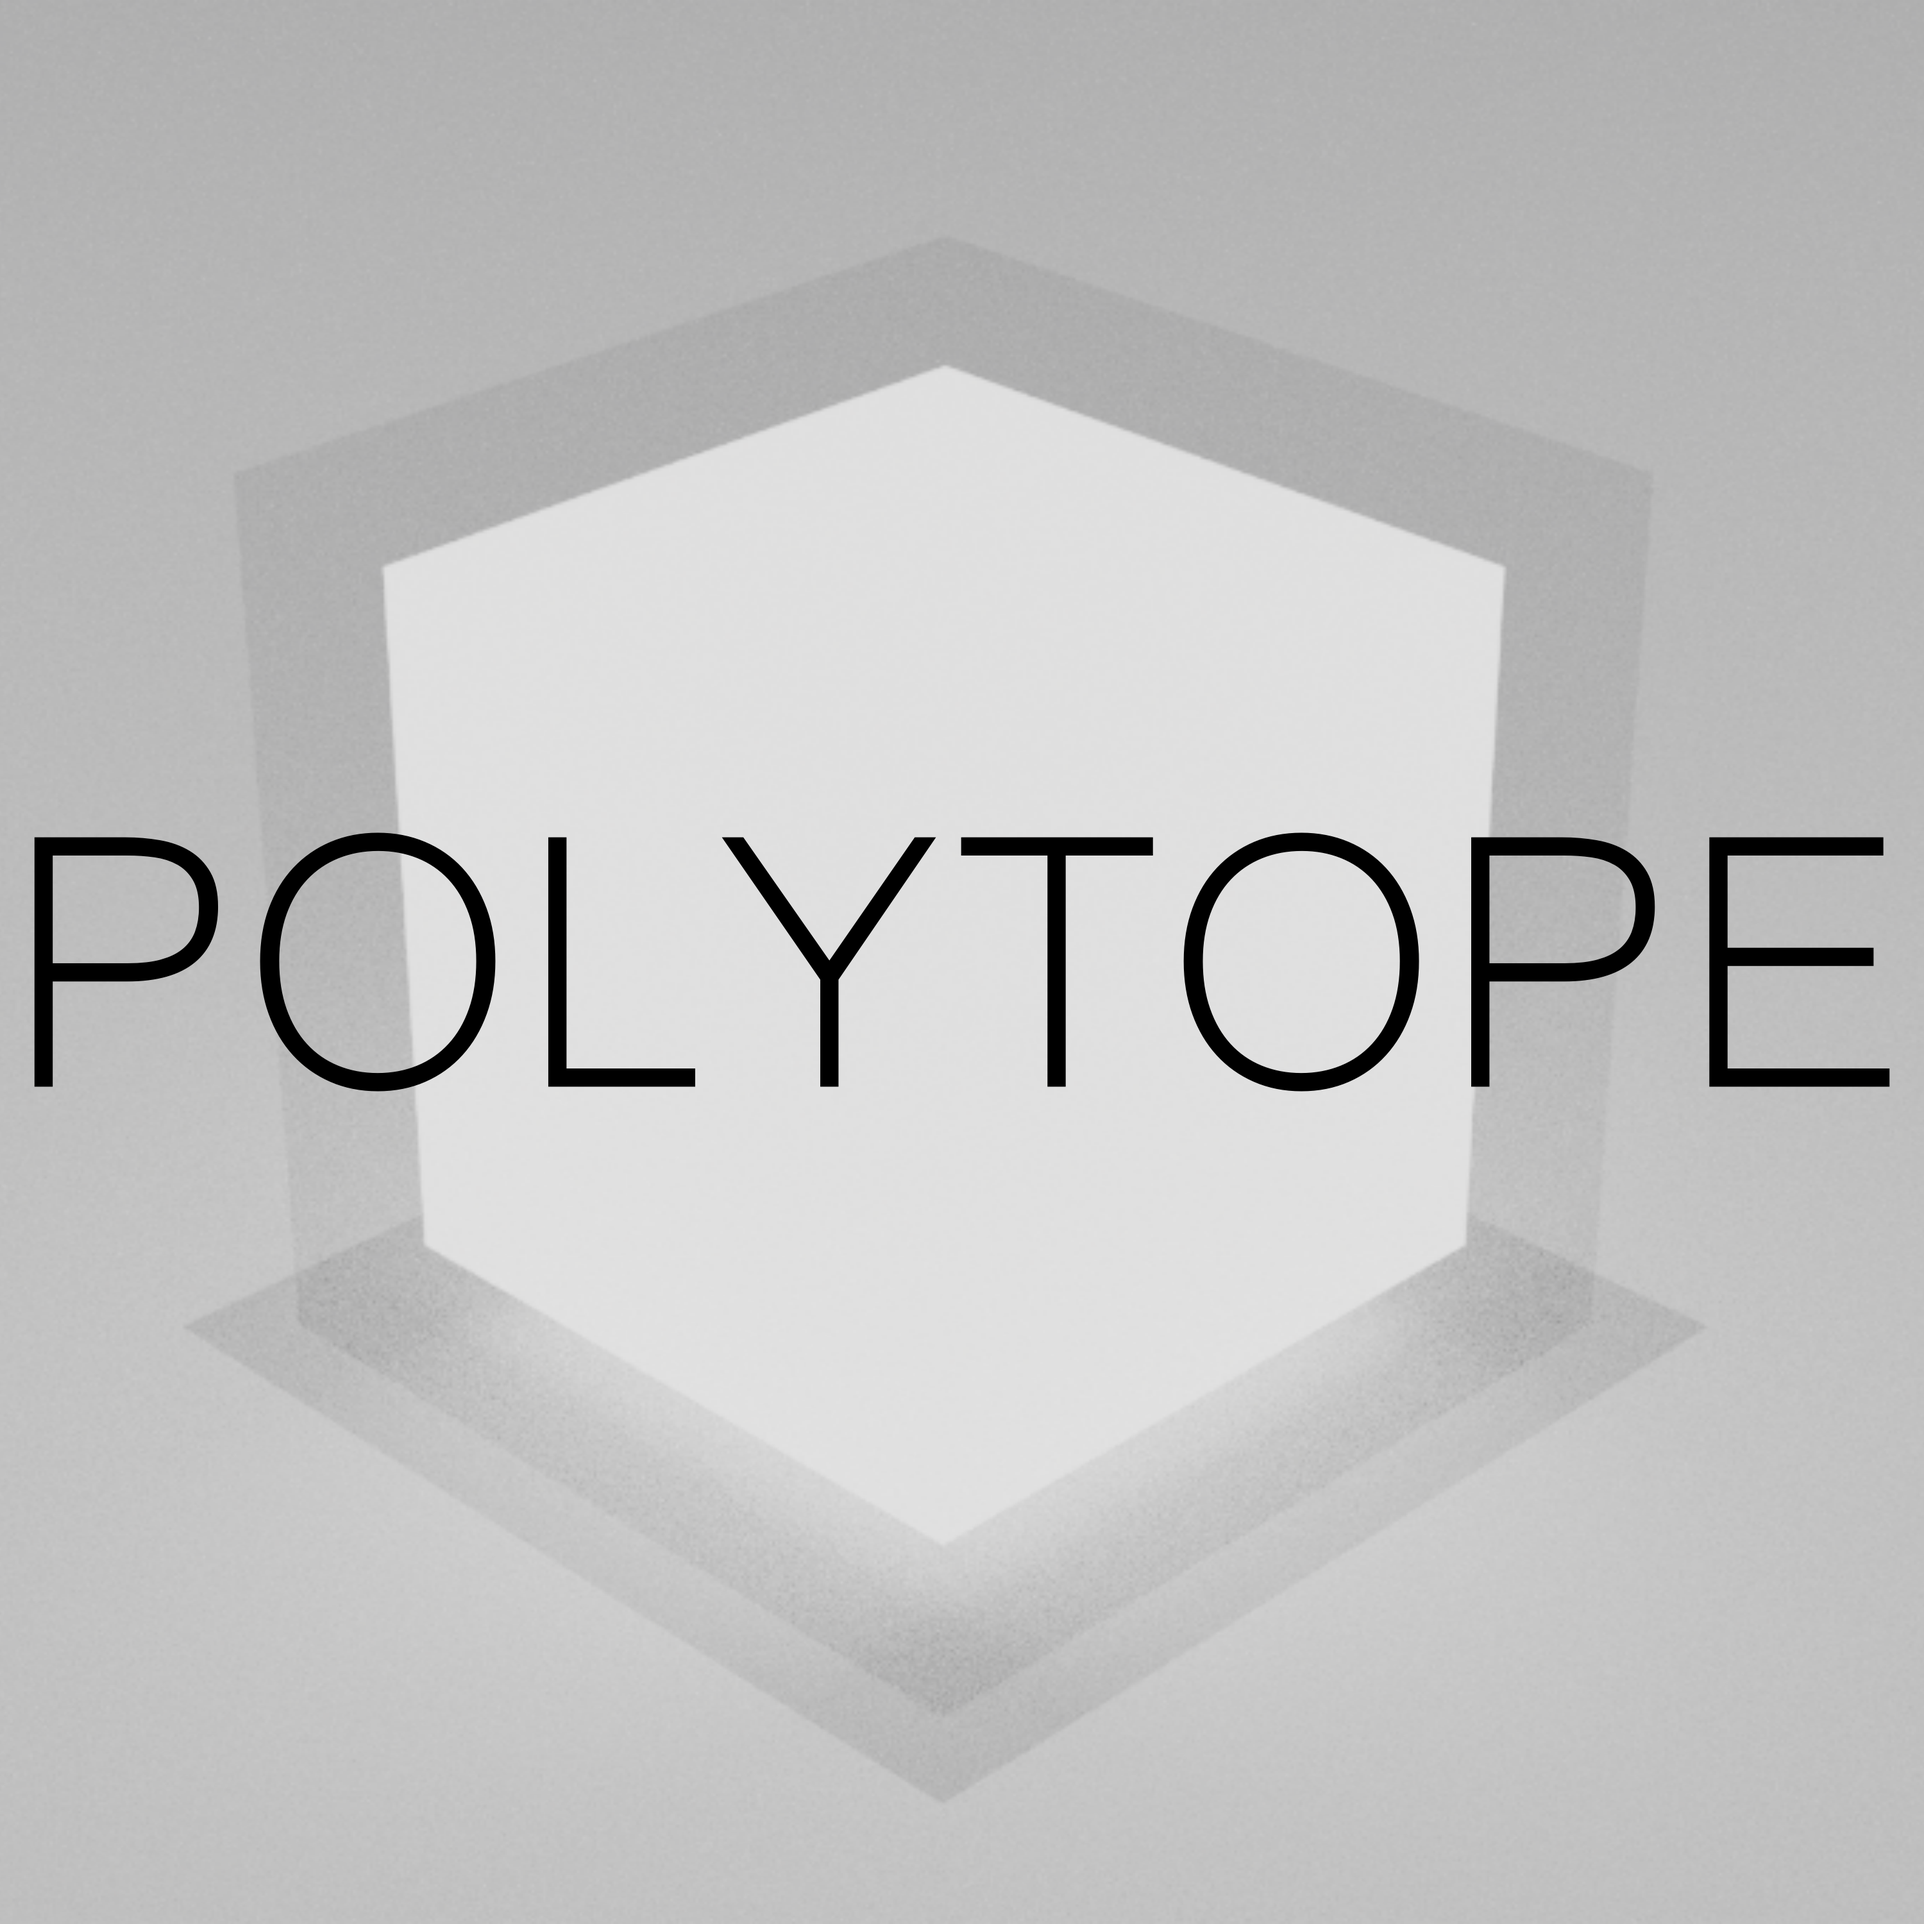
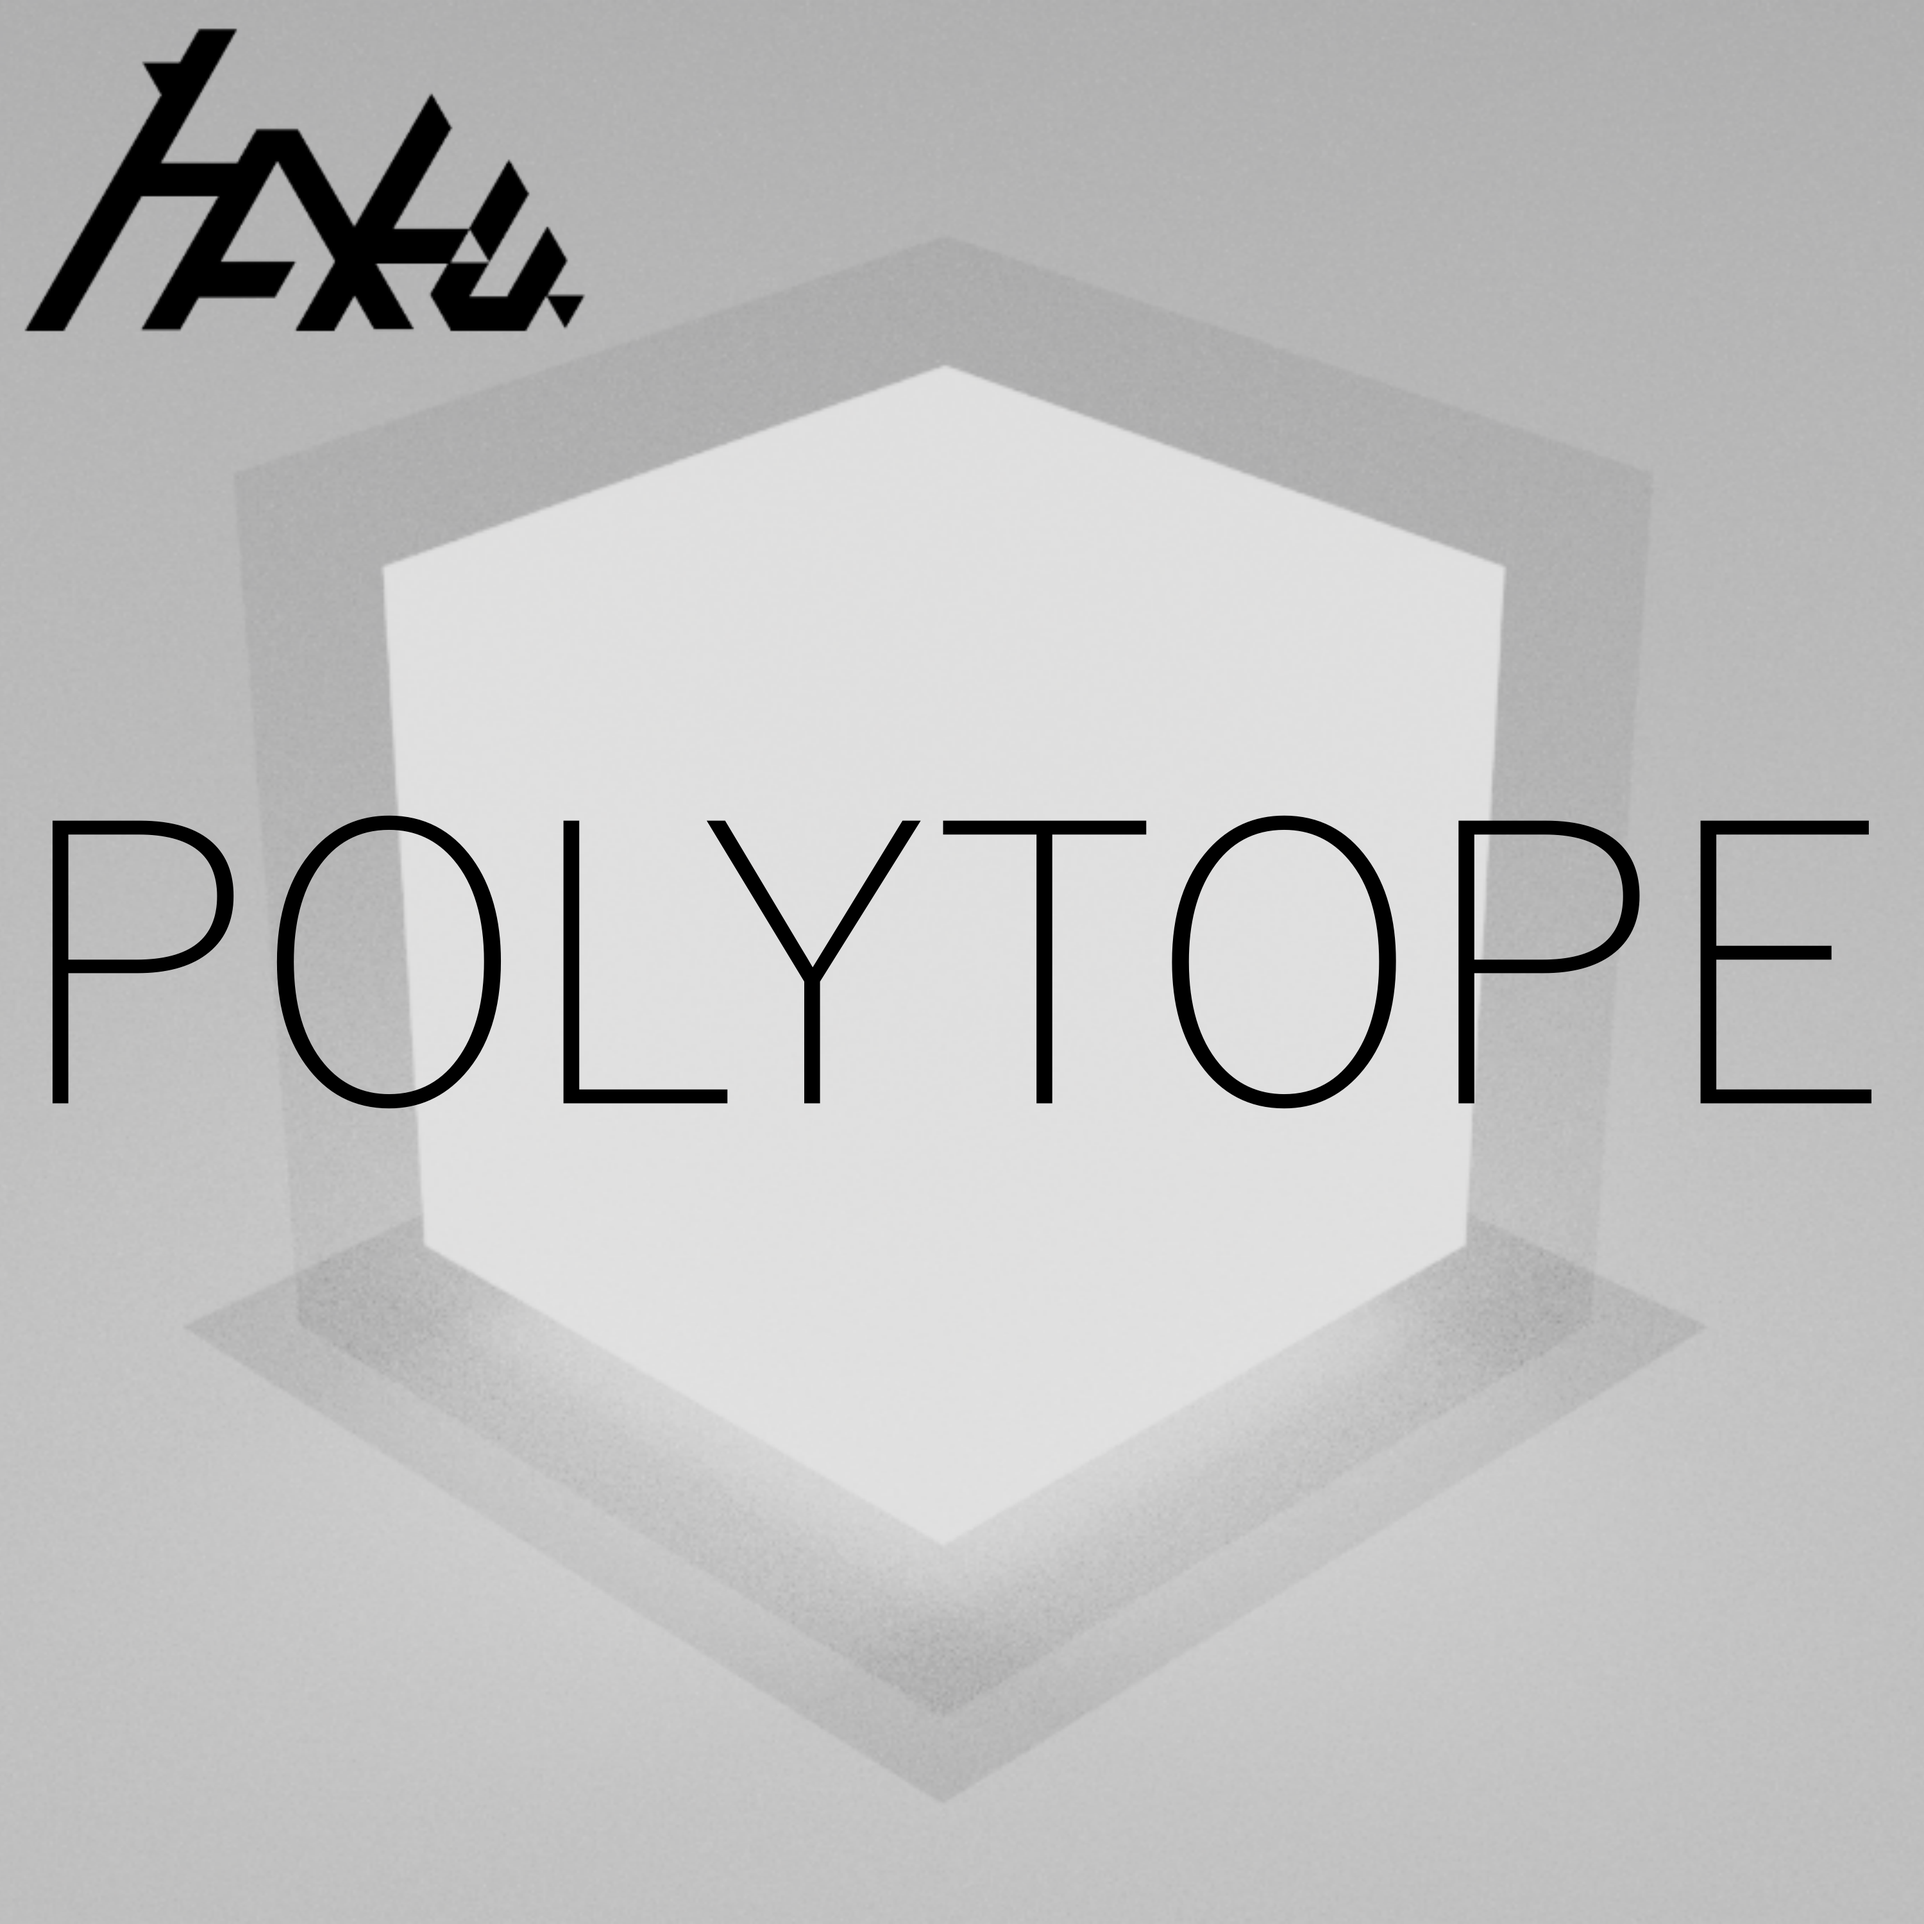
更新

Changed region(s): [[0.372, 0.403, 0.992, 0.589], [0.0, 0.403, 0.372, 0.589], [0.0, 0.0, 0.31, 0.186]]

diff --git a/music.html b/music.html
@@ -22,43 +22,21 @@
   <div class = "main">
     <div class = "header">
             <div class = "header-left">
-                <img class = "header-logo" src = "images/hkdynamics.png" alt = "HK-DYNAMICS">
+                <img class = "header-logo" src = "images/hkdynamics.png" alt = "HK-DYNAMICS" >
             </div>
             <div class="header-right">
                 <div class="pentagon">
                     <svg viewBox="0 0 120 30" class="pentagon-svg">
                     <polygon points="0,0 120,0 120,20 110,30 0,30" fill="none" stroke="black" stroke-width="3"/>
                     </svg>
-                    <a href="#IDtop">Home</a>
+                    <a href="index.html">Home</a>
                 </div>
 
                 <div class="pentagon">
                     <svg viewBox="0 0 120 30" class="pentagon-svg">
                     <polygon points="0,0 120,0 120,20 110,30 0,30" fill="none" stroke="black" stroke-width="3"/>
                     </svg>
-                    <a href="#IDNews">News</a>
-                </div>
-
-
-                <div class="pentagon">
-                    <svg viewBox="0 0 120 30" class="pentagon-svg">
-                    <polygon points="0,0 120,0 120,20 110,30 0,30" fill="none" stroke="black" stroke-width="3"/>
-                    </svg>
-                    <a href="#IDPortfolio">Portfolio</a>
-                </div>
-                
-                <div class="pentagon">
-                    <svg viewBox="0 0 120 30" class="pentagon-svg">
-                    <polygon points="0,0 120,0 120,20 110,30 0,30" fill="none" stroke="black" stroke-width="3"/>
-                    </svg>
-                    <a href="#IDAbout">About</a>
-                </div>
-
-                <div class="pentagon">
-                    <svg viewBox="0 0 120 30" class="pentagon-svg">
-                    <polygon points="0,0 120,0 120,20 110,30 0,30" fill="none" stroke="black" stroke-width="3"/>
-                    </svg>
-                    <a href="#">Contact</a>
+                    <a href="music.html">Music</a>
                 </div>
             </div>
         <div class = "clear"></div>
@@ -67,10 +45,16 @@
       <h1 class = "gH">Works</div>
       <div class="gallery">
         <div class="album" data-id="song1">
-          <img src="Pages/JC/LF500.png" alt="Song 1">
+          <img src="Pages/JC/LF5001.png" alt="Song 1">
         </div>
         <div class="album" data-id="song2">
           <img src="Pages/JC/polytopeTitle.png" alt="Song 2">
+        </div>
+        <div class="album" data-id="song3">
+          <img src="Pages/JC/trans.png" alt="Song 3">
+        </div>
+        <div class="album" data-id="song4">
+          <img src="Pages/JC/RP1.png" alt="Song 4">
         </div>
       </div>
     </main>
@@ -113,13 +97,23 @@
           info: "舞音はく",
           youtubeEmbed: "https://www.youtube.com/embed/xxxxx",
           soundcloudEmbed: `
-            <iframe width="100%" height="166" scrolling="no" frameborder="no" allow="autoplay"
-              src="https://w.soundcloud.com/player/?url=https%3A//api.soundcloud.com/tracks/soundcloud%253Atracks%253A2198676359&color=%23000000&auto_play=false&hide_related=false&show_comments=true&show_user=true&show_reposts=false&show_teaser=true">
-            </iframe>
-            <div style="font-size: 10px; color: #cccccc; line-break: anywhere; word-break: normal; overflow: hidden; white-space: nowrap; text-overflow: ellipsis; font-family: Interstate,Lucida Grande,Lucida Sans Unicode,Lucida Sans,Garuda,Verdana,Tahoma,sans-serif; font-weight: 100;">
-              <a href="https://soundcloud.com/hakumai-yukkuri" title="舞音はく" target="_blank" style="color:#cccccc;text-decoration:none;">舞音はく</a> · 
-              <a href="https://soundcloud.com/hakumai-yukkuri/polytope" title="POLYTOPE" target="_blank" style="color:#cccccc;text-decoration:none;">POLYTOPE</a>
-            </div>
+            <iframe width="100%" height="166" scrolling="no" frameborder="no" allow="autoplay" src="https://w.soundcloud.com/player/?url=https%3A//api.soundcloud.com/tracks/soundcloud%253Atracks%253A2199114647&color=%23000000&auto_play=false&hide_related=false&show_comments=true&show_user=true&show_reposts=false&show_teaser=true"></iframe><div style="font-size: 10px; color: #cccccc;line-break: anywhere;word-break: normal;overflow: hidden;white-space: nowrap;text-overflow: ellipsis; font-family: Interstate,Lucida Grande,Lucida Sans Unicode,Lucida Sans,Garuda,Verdana,Tahoma,sans-serif;font-weight: 100;"><a href="https://soundcloud.com/maioto-haku" title="舞音はく" target="_blank" style="color: #cccccc; text-decoration: none;">舞音はく</a> · <a href="https://soundcloud.com/maioto-haku/polytope" title="POLYTOPE" target="_blank" style="color: #cccccc; text-decoration: none;">POLYTOPE</a></div>
+          `
+        },
+        song3: {
+          title: "TRans⇋m!ssi0n",
+          info: "舞音はく",
+          youtubeEmbed: "https://www.youtube.com/embed/xxxxx",
+          soundcloudEmbed: `
+            <iframe width="100%" height="166" scrolling="no" frameborder="no" allow="autoplay" src="https://w.soundcloud.com/player/?url=https%3A//api.soundcloud.com/tracks/soundcloud%253Atracks%253A2199131355&color=%23000000&auto_play=false&hide_related=false&show_comments=true&show_user=true&show_reposts=false&show_teaser=true"></iframe><div style="font-size: 10px; color: #cccccc;line-break: anywhere;word-break: normal;overflow: hidden;white-space: nowrap;text-overflow: ellipsis; font-family: Interstate,Lucida Grande,Lucida Sans Unicode,Lucida Sans,Garuda,Verdana,Tahoma,sans-serif;font-weight: 100;"><a href="https://soundcloud.com/maioto-haku" title="舞音はく" target="_blank" style="color: #cccccc; text-decoration: none;">舞音はく</a> · <a href="https://soundcloud.com/maioto-haku/transm_ssi0n" title="TRans⇋m!ssi0n" target="_blank" style="color: #cccccc; text-decoration: none;">TRans⇋m!ssi0n</a></div>
+          `
+        },
+        song4: {
+          title: "RAPIDFIRE",
+          info: "舞音はく",
+          youtubeEmbed: "https://www.youtube.com/embed/xxxxx",
+          soundcloudEmbed: `
+            <iframe width="100%" height="166" scrolling="no" frameborder="no" allow="autoplay" src="https://w.soundcloud.com/player/?url=https%3A//api.soundcloud.com/tracks/soundcloud%253Atracks%253A2199179779&color=%23000000&auto_play=false&hide_related=false&show_comments=true&show_user=true&show_reposts=false&show_teaser=true"></iframe><div style="font-size: 10px; color: #cccccc;line-break: anywhere;word-break: normal;overflow: hidden;white-space: nowrap;text-overflow: ellipsis; font-family: Interstate,Lucida Grande,Lucida Sans Unicode,Lucida Sans,Garuda,Verdana,Tahoma,sans-serif;font-weight: 100;"><a href="https://soundcloud.com/maioto-haku" title="舞音はく" target="_blank" style="color: #cccccc; text-decoration: none;">舞音はく</a> · <a href="https://soundcloud.com/maioto-haku/rapidfire" title="RAPIDFIRE" target="_blank" style="color: #cccccc; text-decoration: none;">RAPIDFIRE</a></div>
           `
         },
       };

diff --git a/index.html b/index.html
@@ -50,43 +50,21 @@ window.addEventListener("load", () => {
     <div class = "main">
         <div class = "header">
                 <div class = "header-left">
-                    <img class = "header-logo" src = "images/hkdynamics.png" alt = "HK-DYNAMICS">
+                    <img class = "header-logo" src = "images/hkdynamics.png" alt = "HK-DYNAMICS" href = "index.html">
                 </div>
                 <div class="header-right">
                     <div class="pentagon">
                         <svg viewBox="0 0 120 30" class="pentagon-svg">
                         <polygon points="0,0 120,0 120,20 110,30 0,30" fill="none" stroke="black" stroke-width="3"/>
                         </svg>
-                        <a href="#IDtop">Home</a>
+                        <a href="index.html">Home</a>
                     </div>
 
                     <div class="pentagon">
                         <svg viewBox="0 0 120 30" class="pentagon-svg">
                         <polygon points="0,0 120,0 120,20 110,30 0,30" fill="none" stroke="black" stroke-width="3"/>
                         </svg>
-                        <a href="#IDNews">News</a>
-                    </div>
-
-
-                    <div class="pentagon">
-                        <svg viewBox="0 0 120 30" class="pentagon-svg">
-                        <polygon points="0,0 120,0 120,20 110,30 0,30" fill="none" stroke="black" stroke-width="3"/>
-                        </svg>
-                        <a href="#IDPortfolio">Portfolio</a>
-                    </div>
-                    
-                    <div class="pentagon">
-                        <svg viewBox="0 0 120 30" class="pentagon-svg">
-                        <polygon points="0,0 120,0 120,20 110,30 0,30" fill="none" stroke="black" stroke-width="3"/>
-                        </svg>
-                        <a href="#IDAbout">About</a>
-                    </div>
-
-                    <div class="pentagon">
-                        <svg viewBox="0 0 120 30" class="pentagon-svg">
-                        <polygon points="0,0 120,0 120,20 110,30 0,30" fill="none" stroke="black" stroke-width="3"/>
-                        </svg>
-                        <a href="#">Contact</a>
+                        <a href="music.html">Music</a>
                     </div>
                 </div>
             <div class = "clear"></div>

diff --git a/Pages/Music/music.css b/Pages/Music/music.css
@@ -34,7 +34,7 @@
   position: absolute;
   top: 10%;
   right: 5%;
-  font-size: 90px;
+  font-size: clamp(1.8rem, 3vw + 0.5rem, 5rem); 
   font-weight: bold;
   color: black;
 }
